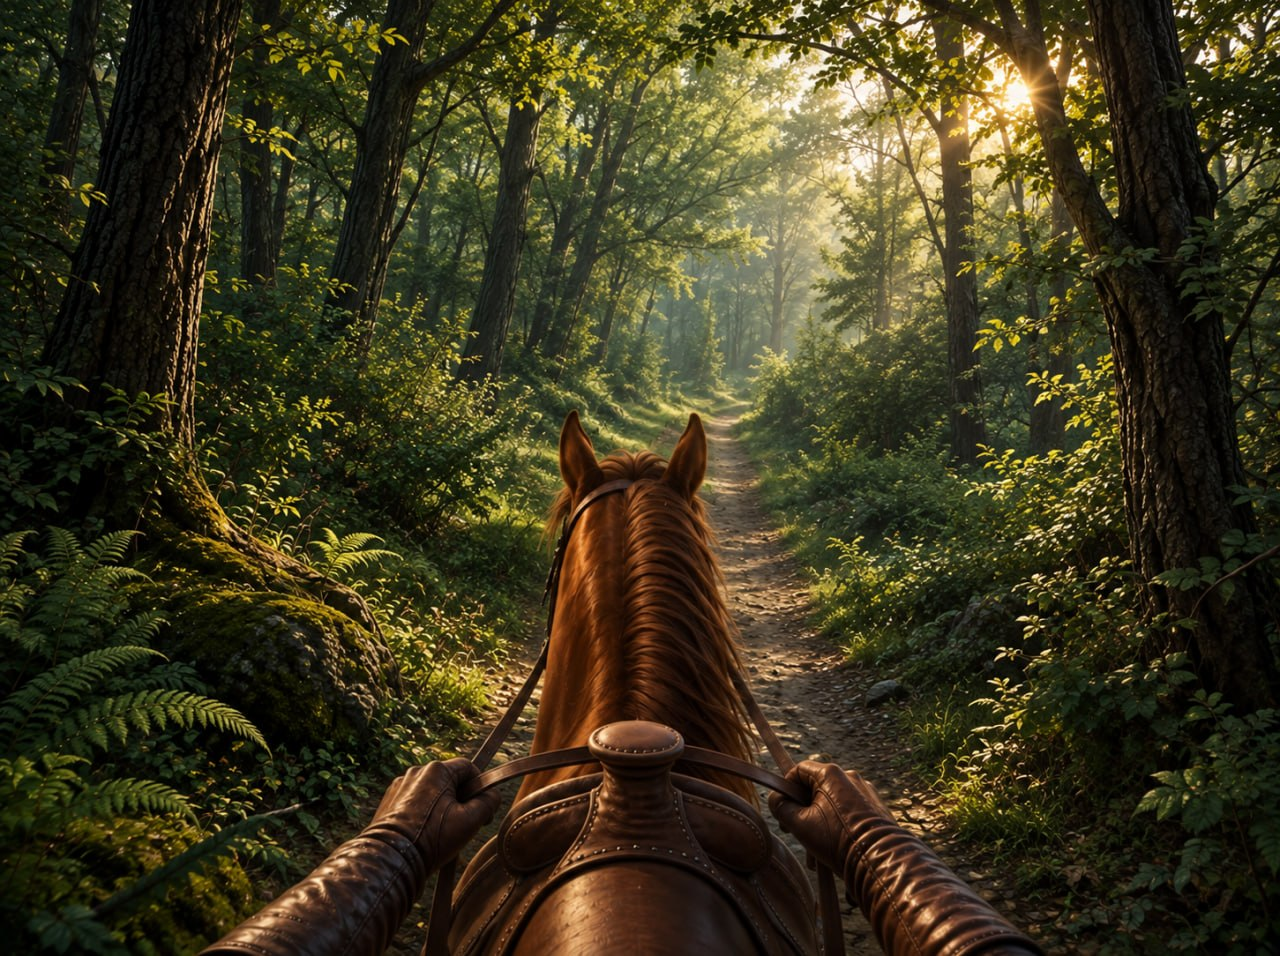
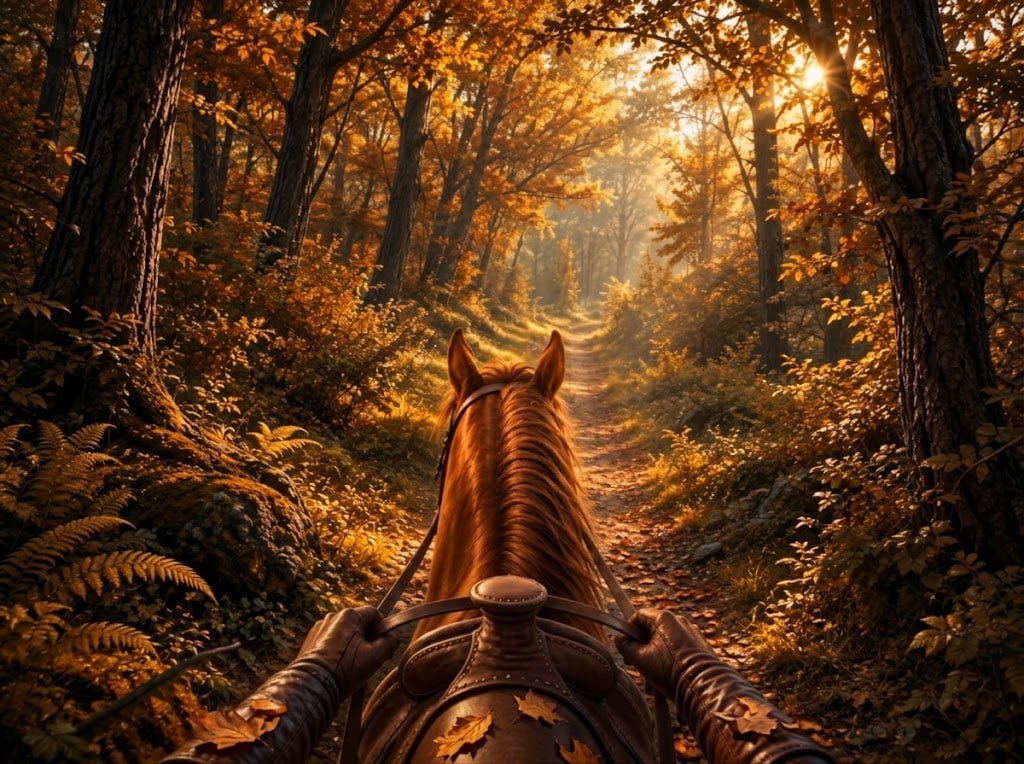
The road card shows an autumn forest for the autumn (the owner's picture; the summer one stays at 2ed296e:Assets/travel/road.jpg)

diff --git a/README.md b/README.md
@@ -335,7 +335,7 @@ RestOfIryna/
 │   │   └── <class>_estate_<m|f>.jpg # Rabid-dog encounter (player's first look at the estate). 6 files: warrior/archer/mage × m/f. Path from CharacterClass.journeyImageName(gender:); replaced 2026-10-06 (1280×699 JPG)
 │   ├── events/veles_night_2026/     # 2026-10-30 — Велесова ніч's own art, only while it runs (`EventArt`): capital.jpg (the map — square and both streets), palace.jpg (the empty throne), manor.jpg (the manor's first screen)
 │   ├── travel/
-│   │   └── road.jpg                 # 2026-10-08 — the road card (first-person from the saddle, 1280×956): setting out, turning back and the countdown are this picture with a new caption, ONE card per trip (`CapitalController.sendRoadCard` replaces the last)
+│   │   └── road.jpg                 # 2026-10-08 — the road card (first-person from the saddle; the autumn forest since 2026-10-31, 1024×764): setting out, turning back and the countdown are this picture with a new caption, ONE card per trip (`CapitalController.sendRoadCard` replaces the last)
 │   ├── estate/                      # Per-tier estate artwork — level_<N>.jpg, N = estateLevel 1…7 (all tiers present)
 │   │   └── level_1.jpg … level_7.jpg
 │   └── capital/                     # Phase 6 — capital + per-location art; each place sends its own through sendCachedPhoto, text while the file is missing (market.jpg not supplied)
@@ -748,6 +748,7 @@ onto the running one is refused):
 - the beasts from the moose on are a level stronger (2026-10-30): the moose … the rabid bear each a level up, about
   5–10% more HP and attack; the first four, the XP, the bands and the holiday's creatures unchanged
   (`content/spec/spec-bestiary.md` §14).
+- the road between the estate and the capital shows an autumn forest from the saddle (2026-10-31, for the autumn).
 
 A concept for class sets is parked, nothing built (`.memory/class-sets-concept.md`). The deployed
 commit, the digest baseline and the next step are kept in [Prompt.md](./Prompt.md).

diff --git a/.memory/file-map.md b/.memory/file-map.md
@@ -119,7 +119,7 @@ RestOfIryna/
 │   │   └── <class>_estate_<m|f>.jpg # (replaced 2026-10-06) Rabid-dog encounter step (player's first look at the estate). 6 files: warrior/archer/mage × m/f. Path built by `CharacterClass.journeyImageName(gender:)`. No genderless fallback (removed 2026-05-21).
 │   ├── capital/                    # The square + both streets (one map, 2026-10-06), palace, trader, master, tavern, fortune + `fortune/` (22 cards). `market.jpg` not supplied. A screen with art edits its CAPTION — 1,024 max
 │   ├── events/veles_night_2026/    # **2026-10-30** — a holiday's own art, sent from its `artFrom` to its close (`EventArt.path`) and only when the file exists: `capital.jpg` (the map with pumpkins — the square AND both streets), `palace.jpg` (the empty throne), `manor.jpg` (the manor's first screen, the step through the gate). A slot is a screen; the next holiday drops its files into `events/<id>/`
-│   ├── travel/road.jpg             # **2026-10-08** — the road card (the owner's picture, 1280×956): setting out, turning back and the countdown, one card per trip (`CapitalController.sendRoadCard`)
+│   ├── travel/road.jpg             # **2026-10-08** — the road card (the owner's picture; since 2026-10-31 the AUTUMN one, 1024×764 — «поки осінь»; the green summer one is `2ed296e:Assets/travel/road.jpg`): setting out, turning back and the countdown, one card per trip (`CapitalController.sendRoadCard`)
 │   └── estate/                     # Per-tier estate artwork — `level_<N>.jpg`, N = estateLevel 1…7 (EstateUpgradeCatalog.maxTier). Loaded directly by EstateController.showEstate; all 7 present (2026-05-21).
 │       └── level_1.jpg … level_7.jpg
 │

diff --git a/TODO.md b/TODO.md
@@ -2157,6 +2157,12 @@ task-ready, Vigor-reward, tarot and weapon blocks, the 2026-10-03 quest-board bl
 blocks under them** (the 2026-10-17 wealth board, welcome and leaderboard pages, and the 2026-10-13
 barrier) went live at the 2026-10-17 17:40 restart.
 
+**Added 2026-10-31 — the autumn road (NOT live — it ships with the restart; a picture only):**
+- [ ] A trip between the estate and the capital, both ways, shows the autumn forest from the saddle (setting out,
+      «↩ Розвернутись», «how long is left»). The owner: for the whole autumn, not just the holiday. **When autumn is
+      over**, put the green summer road back (`git show 2ed296e:Assets/travel/road.jpg > Assets/travel/road.jpg`) or the
+      owner's winter one, and restart: the bot caches a picture's Telegram id in memory until it restarts.
+
 **Added 2026-10-30 — stronger beasts (NOT live — content only, it rides the holiday's restart; `spec-bestiary.md` §14):**
 - [ ] `/content` reads hash `231acc72` after the restart (the holiday's `artFrom` moved it from `30a590f0`).
 - [ ] A fight with the moose (km 12–16) on a T1 estate shows ❤ 102 on the creature's line (94 before); the rabid bear
